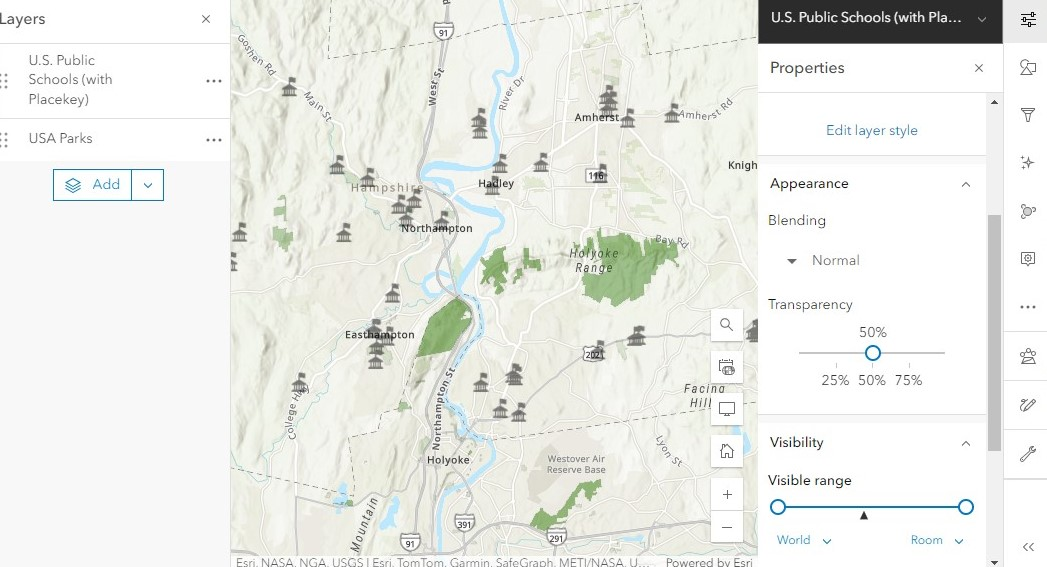
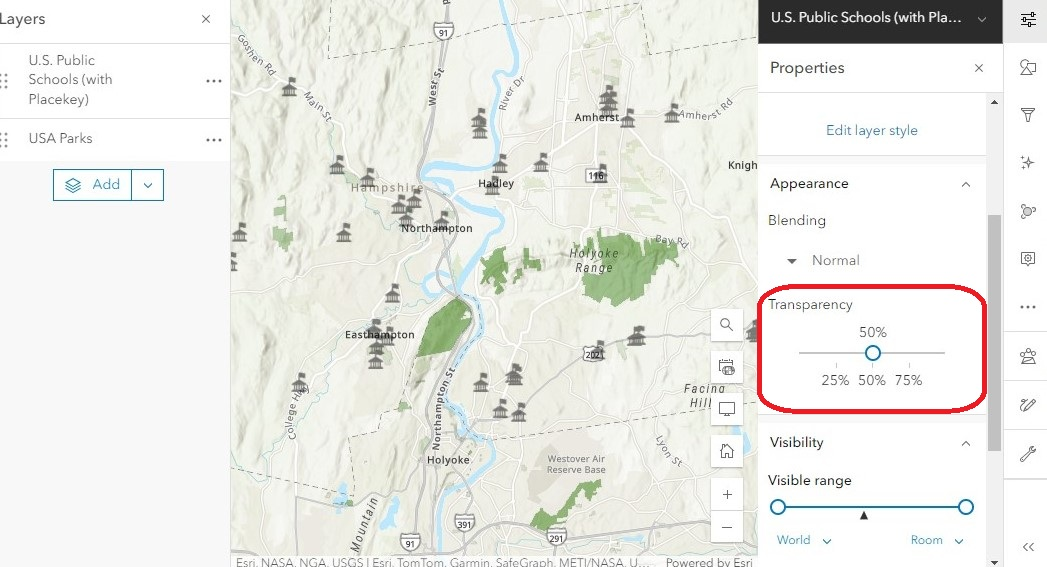
Editing layer-styling
adding red boxes where necessary. WebMap 25-34 ish

Changed region(s): [[0.703, 0.4797, 0.9169, 0.7496], [0.9169, 0.5097, 0.9475, 0.7196]]

diff --git a/content/agol/layer-styling.md b/content/agol/layer-styling.md
@@ -51,13 +51,14 @@ This setting is especially useful when publishing web maps with lots of data dis
 
 The Styles menu (symbolized as a triangle, square, and circle) allows us to change the way a layer’s icons appear. In the right menu bar, open the **Styles** menu.
 
-![Choosing Layer Styles](media/all_AGOL/WebMap_25.jpg "Choosing Layer Styles")
+<img src="media/all_AGOL/WebMap_25.jpg" alt="Choosing Layer Styles" class="center" width="300">
 
 The default setting for point layers is for all the symbols to appear the same. To change the color and size of all points at the same time: 
 1. under **Pick a style**, click **“Style options”** to open the Location (Single symbol) menu. 
 1. Click on the symbol to open the Symbol style menu. This is where we can change the current symbol, change the size, fill color, outline color, etc.
 
   <img src="media/all_AGOL/WebMap_26.png" alt="Changing Layer Symbology" class="center" width="600">
+  
 Oftentimes, we want to use data in the attribute table to automatically change the way the points appear in the map. Let’s say we want the icons to reflect the level of education of each school.
 1. In the main **Styles** menu, under **Choose attributes**, click **“+ Field”** to open the fields menu. 
 1. Check the “Level” field, then click “Add.” The school icons automatically change to colored dots, and a legend appears in the lower left corner indicating which color represents which level. This is the default style when varying symbology is used.
